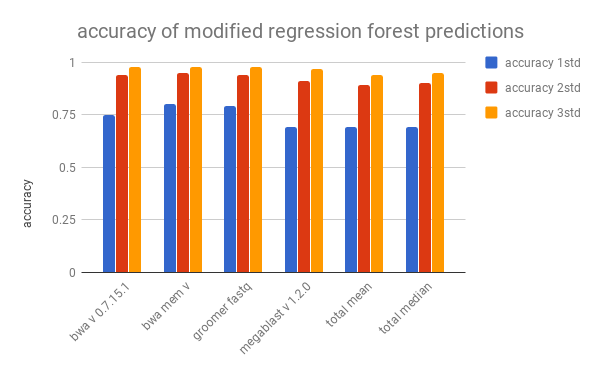
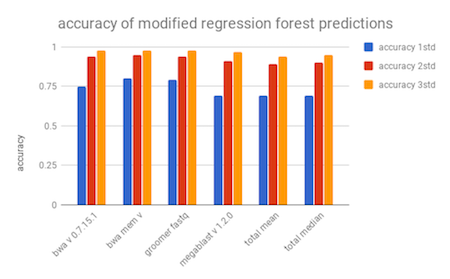
graphs are better than tables

diff --git a/README.md b/README.md
@@ -284,7 +284,7 @@ We tested the modified regression forest against the historical data with three 
 | megablast v 1.2.0 | 0.69 | 0.91 | 0.97 | 5287.06 | 34613.03 | 182434.66|
 | total mean | 0.69 | 0.89 | 0.94 | 332.67 | 4415.36 | 139264.13 |
 | total median | 0.69 | 0.90 | 0.95 | - | - |  -| -->
-![](images/accuracy-qrf.png | width=200)![](images/accuracy-qrf.png =200x200)
+![alt text](images/accuracy-qrf.png)   ![alt text](images/intervals-qrf.png)
 
 The largest drawback of the quantile regression forest is that the time ranges that it guesses can be quite large. These large time ranges are not useful for giving a user an idea of how long an analysis will take, but they may be useful for creating walltimes.
 
@@ -294,14 +294,15 @@ Without log transformation the interval sizes improve and so does the performanc
 
 ##### Mean accuracy of 3-fold cross-validated tests (runtimes not log-transformed)
 
-|                    | accuracy 1std | accuracy 2std | accuracy 3std  | mean interval (1std) | mean_interval (2std) | mean_interval (3std) |
+![alt text](images/accuracy-qrf-no-log.png)   ![alt text](images/intervals-qrf-no-log.png)
+<!-- |                    | accuracy 1std | accuracy 2std | accuracy 3std  | mean interval (1std) | mean_interval (2std) | mean_interval (3std) |
 |---|---|-----|-------|--------------|-------|--------------|
 | bwa v 0.7.15.1 | 0.90 | 0.97 | 0.99 | 2196.55 | 4393.11 | 6589.66|
 | bwa mem v 0.7.15.1 | 0.94 | 0.98 | 0.99 | 715.16 | 1430.32 | 2145.47|
 | groomer fastq groomer v 1.1.1 | 0.84 | 0.96 | 0.98 | 631.85 | 1263.70 | 1895.55|
 | wrapper megablast wrapper v 1.2.0 | 0.80 | 0.94 | 0.97 | 14722.29 | 29444.58 | 44166.88|
 | total mean | 0.77 | 0.91 | 0.94 | 729.32 | 1458.64 | 2187.96 |
-| total median | 0.79 | 0.92 | 0.95 | - | -| -|
+| total median | 0.79 | 0.92 | 0.95 | - | -| -| -->
 
 <!--![alt text](images/freq_conf_intervals_3std_bwa.png)-->
 
@@ -329,31 +330,33 @@ As the buckets become larger. the number of jobs in the bucket decrease by 1/2^i
 
 This method of creating buckets puts an arbitrary limit on the longest amount of time that a tool is allowed to run based on the longest a job has been observed to run. It is also susceptible to false positives at the longer runtime buckets if trained by a contaminated dataset.
 
-The aribitrary upper limit would also be present in the original qunatile random forest since it won't create quantiles intervals longer than the longest runtime it has seen. Similarly, with the altered quantile forest with the standard deviations would not have
+The aribitrary upper limit would also be present in the original qunatile random forest since it won't create quantiles intervals longer than the longest runtime it has seen. Similarly, with the modified quantile forest with the standard deviations would have an arbitrary upper limit based on the variability of historical data found in its leaves.
 
-The results of the classifier can be found [here](benchmarks/classifier_forest_metrics.csv).
+The results of the classifier can be found [here](benchmarks/classifier_forest_metrics.csv). A comparison of the accuracy of the classifier vs the modified regression forest with an interval of one standard deviation can be found below.
 
-A comparison of the accuracy of the classifier vs the quantile regression forest with an interval of one standard deviation can be found below.
+![alt text](images/comparison-accuracies.png)   ![alt text](images/comparison-intervals.png)
 
-|| clf accuracy | clf mean interval | clf median interval | qf accuracy | qf mean interval | qf median interval |
+<!-- || clf accuracy | clf mean interval | clf median interval | qf accuracy | qf mean interval | qf median interval |
 |---|--------------|-------------------|---------------------|-------------|------------------|--------------------|
 | bwa v 0.7.15.1     | 0.81 | 698.08 | 197.00| 0.90 | 2196.55 | 651.40|
 | bwa mem v 0.7.15.1 |  0.76 | 247.83 | 47.00 | 0.94 | 715.16 | 413.40|
 | fastq groomer v 1.1.1 |0.93 | 1250.62 | 1010.50 | 0.84 | 631.85 | 130.41|
 | megablast v 1.2.0  | 0.72 | 3821.06 | 1352.00 | 0.80 | 14722.29 | 4687.70|
 | total mean  | 0.75 | 1343.36 | 1073.15 | 0.69 | 326.17 | 74.50|
-| total median |0.75 | 112.32 | 39.50| 0.69 | 22.23 | 3.56|
+| total median |0.75 | 112.32 | 39.50| 0.69 | 22.23 | 3.56| -->
 
-![alt text](images/freq_conf_intervals_1std_bwa.png)![alt text](images/freq_clf_intervals_bwa.png)
+The two models have comparable performance on the Galaxy dataset when a prediction interval of one standard deviation about the mean is used. However, the modified regression forest edges out a little bit once we increase the interval. We did not include the interval size for the 2 std dev mrf in the interval size bar graph because it is simply twice as large as the 1 std dev mrf bar graph. To take a more in depth look at the prediction intervals, I've also provided a comparison of the frequency distributions below. This for one tool only - BWA version 0.7.15.1.
 
+![alt text](images/freq_conf_intervals_1std_bwa.png)  ![alt text](images/freq_clf_intervals_bwa.png)
 
+The modified regression forest is using an interval of only one standard deviation about the mean. Still, it has prediction spike of very large intervals, over one hundred minutes long. The classifier has controlled prediction intervals. The method we used to choose buckets, makes it so that the one of the intervals is over an hour long. These, however, can be controlled and modified in the bucket selection step.
 
 
 ## Conclusion
 
 In this paper, we introduced the Galaxy dataset, tested popular machine learning models, and compared two methods of predicting runtime intervals: modified quantile regression forests and random forest classifiers.
 
-Quantile regression forests are more accurate in their predictions. However, the sizes of the confidence intervals it provides are unpredictable, and may be unuseful if the interval is more than an hour large. Though random forest classifiers are less accurate, they allow for more control over the size of the confidence intervals.
+Quantile regression forests are more accurate in their predictions, and grant the ability to improve performance by changing the confidence of the interval estimates. However, the sizes of the confidence intervals it provides are unpredictable, and may be unuseful if the interval is very large. Random forest classifiers are less accurate, but they allow for more control over the size of the prediction intervals.
 
 Both methods are susceptible to being skewed by contaminated data. The datasets used to train and evaluate the models are known to contain undetected errors. We believe the contamination to certainly be less than 5%, though the exact extent is not known at this time. All of the tests were done with the same data, so each was made vulnerable to the effects of the bad jobs.
 
